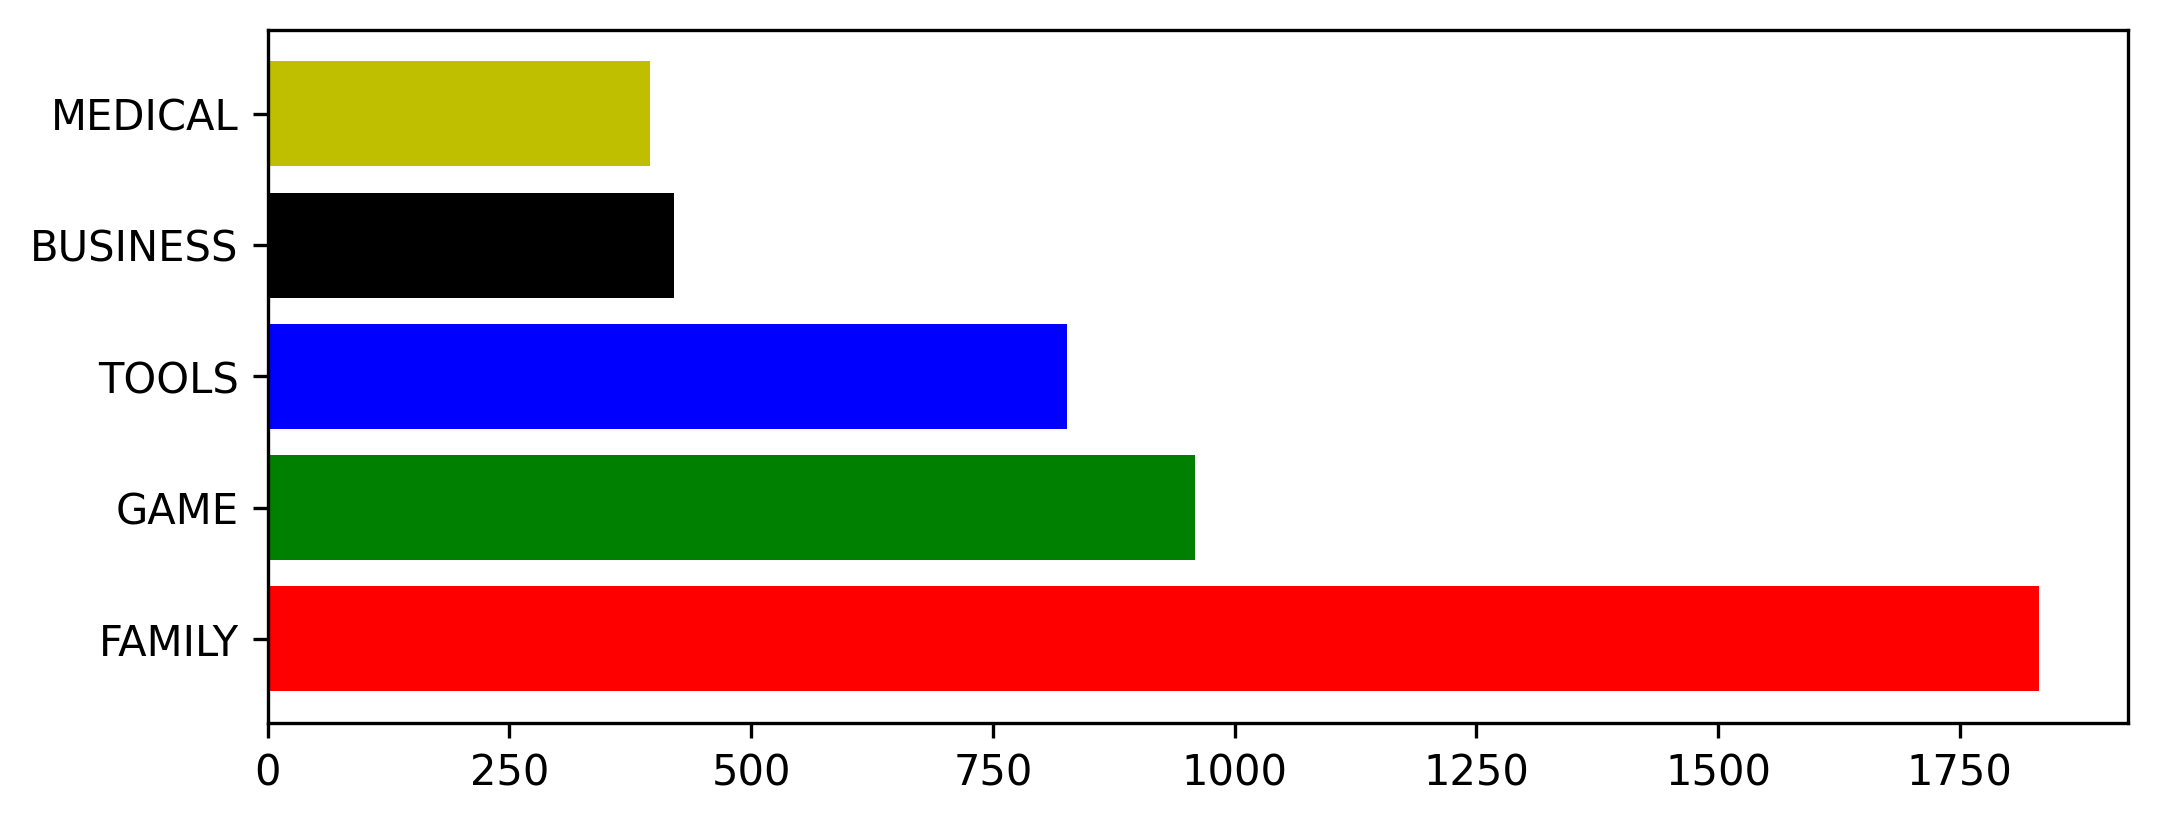
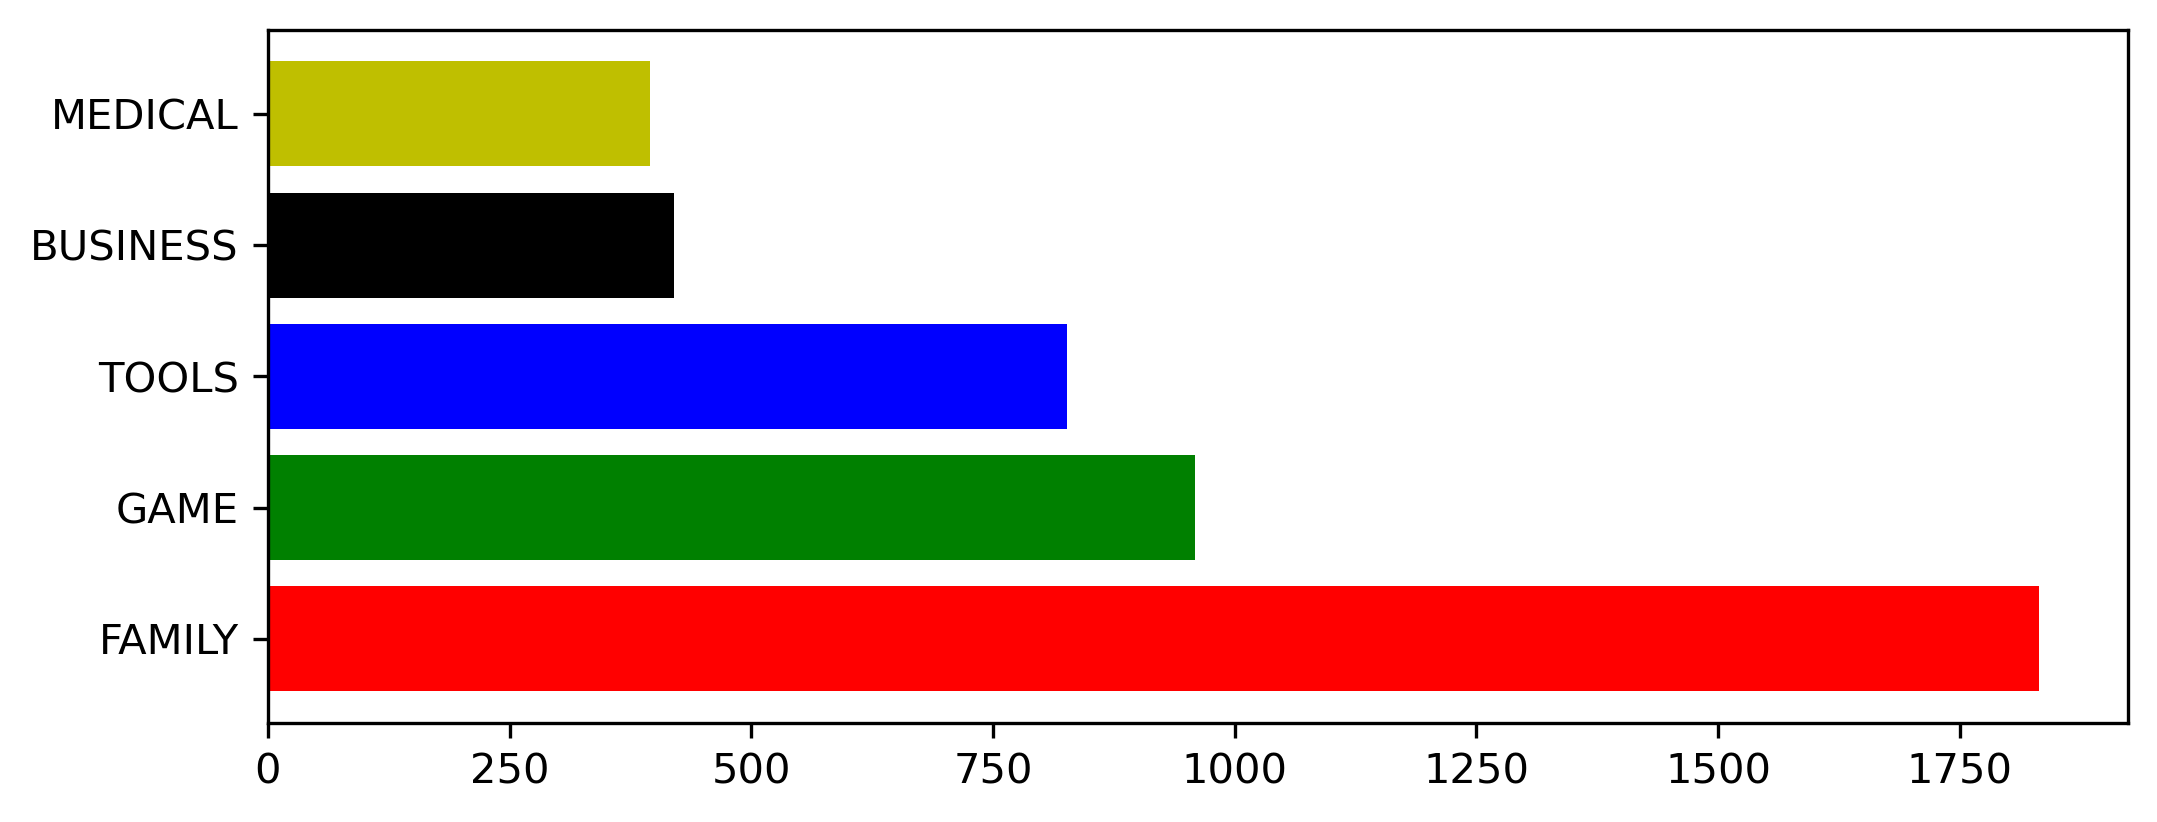
Resolving mac env issues

diff --git a/app.py b/app.py
@@ -5,6 +5,9 @@ import matplotlib.pyplot as plt
 from io import BytesIO
 import base64
 
+# Uncomment line below if you run this project on Mac
+# plt.switch_backend('Agg')
+
 app = Flask(__name__)
 
 playstore = pd.read_csv('data/googleplaystore.csv')
@@ -120,6 +123,7 @@ def index():
     result4 = df2.groupby('Category').agg({
         'Installs': 'sum',
     }).sort_values('Installs', ascending=False).head(10).plot.barh()
+    plt.savefig('top_10_best_selling.png',bbox_inches="tight") 
 
     figfile = BytesIO()
     plt.savefig(figfile, format='png')
